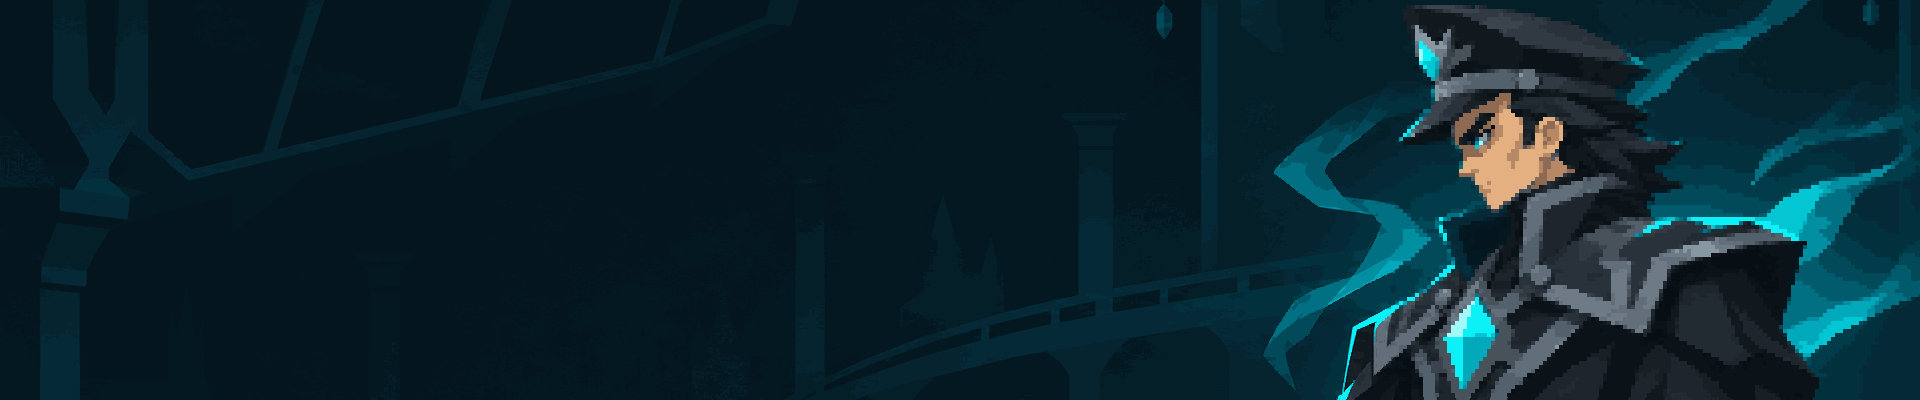
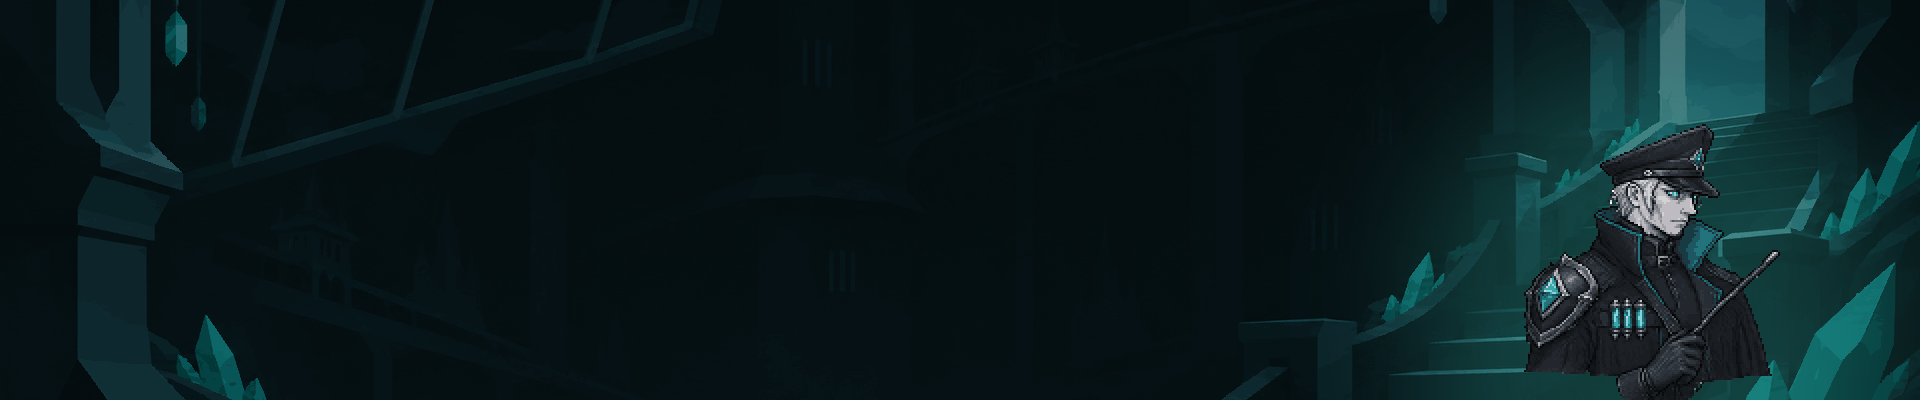
보스 이름 카드를 지금 보스 그림에 맞춤 (O4)
크래셔·아크·문지기의 카드 인물을 PixelLab 상반신으로 새로 만들었다
(보스마다 시안 둘, 크래셔 2안·아크 1안·문지기 1안 선택). 구역 카드 배경을
어둡게 하고 상반신을 2배(도트 2px)로 오른쪽에 놓는다. 심장은 지금 본체와
손 그림을 배치. 문지기 카드가 생겨 등장씬에 이름 띠가 뜬다.
예전 카드는 assets/concept/boss_cards_old/로 옮겼다. 테스트 4개 추가(862개 통과).

diff --git a/tools/apply_pixellab_boss_cards.py b/tools/apply_pixellab_boss_cards.py
@@ -1,0 +1,91 @@
+"""보스 이름 카드를 지금 보스 그림에 맞춰 굽는다 (O4, 2026-11-26, docs/opus/TASKS.md). code + PixelLab.
+
+예전 카드(Codex T34·T47)는 예전 디자인의 인물이었다(크래셔는 웃통 벗은 남자, 아크는 밝은 만화풍 장교, 문지기는 카드 없음).
+- 배경: 구역 카드 배경(assets/backgrounds/zone_<테마>.png, 1920x400)을 어둡게 하고, 인물 뒤에 구역 빛 색을 옅게 번지게 한다.
+- 인물: PixelLab 상반신(assets/sprites/pixellab/boss_cards_v6/raw_gen/<고른 시안>.png, 1배)을 알파 영역으로 잘라
+  최근접 2배(도트 2px)로 오른쪽에 놓는다. 허리가 카드 아래 끝에 닿는다.
+- 헤이즈 심장: 사람이 아니라 새로 뽑지 않고 지금 본체(열린 모습 v6_heart_core_3)와 손(heart_hand_idle_1)을 그대로 놓는다(이미 2배 그림).
+- 예전 카드는 assets/concept/boss_cards_old/로 옮겨 둔다(이 도구는 옮기지 않는다: git mv로 한 번 옮겼다).
+결과: assets/backgrounds/boss_card_<crasher|ark|gatekeeper|heart>.png (1920x400, RGB)
+
+사용: python tools/apply_pixellab_boss_cards.py
+"""
+import os
+
+from PIL import Image, ImageFilter
+
+ROOT = os.path.dirname(os.path.dirname(os.path.abspath(__file__)))
+RAW = os.path.join(ROOT, 'assets', 'sprites', 'pixellab', 'boss_cards_v6', 'raw_gen')
+OUT = os.path.join(ROOT, 'assets', 'backgrounds')
+W, H = 1920, 400
+SCALE = 2
+RIGHT = 140                 # 인물 오른쪽 끝과 카드 오른쪽 끝 사이
+DARK = 0.5                  # 배경 밝기
+
+# 보스 -> (고른 시안, 구역 배경, 인물 뒤 빛 색). 고른 이유는 boss_cards_v6/GENERATION_LOG.md
+CARDS = {
+    'crasher': ('crasher_2', 'zone_foundry', (255, 120, 50)),
+    'ark': ('ark_1', 'zone_haze', (60, 220, 200)),
+    'gatekeeper': ('gatekeeper_1', 'zone_cell', (120, 170, 230)),
+    'heart': (None, 'zone_haze', (60, 230, 210)),
+}
+
+
+def background(zone, glow, center_x):
+    bg = Image.open(os.path.join(OUT, zone + '.png')).convert('RGB').resize((W, H), Image.NEAREST)
+    bg = Image.eval(bg, lambda v: int(v * DARK))
+    halo = Image.new('L', (W, H), 0)                                   # 인물 뒤에 옅게 번지는 구역 빛
+    from PIL import ImageDraw
+    d = ImageDraw.Draw(halo)
+    d.ellipse((center_x - 230, H - 330, center_x + 230, H + 120), fill=55)
+    halo = halo.filter(ImageFilter.GaussianBlur(60))
+    color = Image.new('RGB', (W, H), glow)
+    return Image.composite(color, bg, halo)
+
+
+def portrait(name):
+    """고른 상반신: 알파 영역으로 잘라 최근접 2배. 알파는 0/255 그대로."""
+    im = Image.open(os.path.join(RAW, name + '.png')).convert('RGBA')
+    im = im.crop(im.getchannel('A').getbbox())
+    return im.resize((im.width * SCALE, im.height * SCALE), Image.NEAREST)
+
+
+def place(kind):
+    """(카드 그림, 인물 그림, 인물 왼쪽 위 좌표). 테스트가 2px 격자를 잰다."""
+    name, zone, glow = CARDS[kind]
+    if name is None:
+        return heart_card(zone, glow), None, None
+    fig = portrait(name)
+    x, y = W - RIGHT - fig.width, H - fig.height
+    card = background(zone, glow, x + fig.width // 2)
+    card.paste(fig, (x, y), fig)
+    return card, fig, (x, y)
+
+
+def heart_card(zone, glow):
+    unified = os.path.join(ROOT, 'assets', 'sprites', 'unified')
+    core = Image.open(os.path.join(unified, 'v6_heart_core_3.png')).convert('RGBA')
+    core = core.crop(core.getchannel('A').getbbox())
+    hand = Image.open(os.path.join(unified, 'heart_hand_idle_1.png')).convert('RGBA')
+    hand = hand.crop(hand.getchannel('A').getbbox())
+    cx = W - RIGHT - core.width // 2
+    card = background(zone, glow, cx)
+    top = 24                                                           # 본체 위 끝을 보이고 아래는 카드 밖으로 잘린다
+    card.paste(core, (cx - core.width // 2, top), core)
+    for side in (-1, 1):
+        h = hand if side > 0 else hand.transpose(Image.FLIP_LEFT_RIGHT)
+        hx = cx + side * (core.width // 2 + 10) - (0 if side > 0 else h.width)
+        hx = max(0, min(W - h.width, hx))
+        card.paste(h, (hx // 2 * 2, H - h.height - 20), h)
+    return card
+
+
+def main():
+    for kind in CARDS:
+        card, _, _ = place(kind)
+        card.save(os.path.join(OUT, f'boss_card_{kind}.png'))
+        print('저장', f'assets/backgrounds/boss_card_{kind}.png', card.size)
+
+
+if __name__ == '__main__':
+    main()

diff --git a/tests/test_boss_cards.py b/tests/test_boss_cards.py
@@ -1,0 +1,65 @@
+"""보스 이름 카드 테스트 (창 없이). 실행: python tests/test_boss_cards.py
+
+O4 (2026-11-26, docs/opus/TASKS.md): 보스 넷의 이름 카드를 지금 보스 그림(PixelLab v6)에 맞춰 다시 구웠다.
+카드는 1920x400, 문지기 카드가 새로 생겨 이름 띠가 뜬다, 새 상반신 부분은 도트 2px 격자다.
+"""
+import os
+import sys
+
+import numpy as np
+from PIL import Image
+
+HERE = os.path.dirname(os.path.abspath(__file__))
+ROOT = os.path.join(HERE, '..')
+sys.path.insert(0, os.path.join(ROOT, 'src'))
+sys.path.insert(0, os.path.join(ROOT, 'tools'))
+
+KINDS = ('gatekeeper', 'crasher', 'ark', 'heart')
+
+
+def test_every_boss_has_a_1920x400_card():
+    for kind in KINDS:
+        path = os.path.join(ROOT, 'assets', 'backgrounds', f'boss_card_{kind}.png')
+        assert os.path.exists(path), kind
+        assert Image.open(path).size == (1920, 400), kind
+
+
+def test_gatekeeper_card_opens():
+    import zone_card
+
+    class Boss:
+        kind, title = 'gatekeeper', '문지기'
+
+    class Stage:
+        name, boss = 'stage1', None
+    card = zone_card.ZoneCard(Stage())
+    assert card.open_boss(Boss())
+
+
+def test_new_portraits_are_on_the_two_pixel_grid_and_match_the_saved_card():
+    import apply_pixellab_boss_cards as tool
+    for kind in ('crasher', 'ark', 'gatekeeper'):
+        card, fig, (x, y) = tool.place(kind)
+        saved = np.asarray(Image.open(os.path.join(ROOT, 'assets', 'backgrounds', f'boss_card_{kind}.png')).convert('RGB'))
+        mask = np.asarray(fig.getchannel('A')) == 255
+        region = saved[y:y + fig.height, x:x + fig.width]
+        want = np.asarray(fig.convert('RGB'))
+        assert (region[mask] == want[mask]).all(), kind                  # 저장된 카드의 인물 = 도구가 놓는 그림
+        assert x % 2 == 0 and y % 2 == 0 and fig.width % 2 == 0 and fig.height % 2 == 0, kind
+        blocks = want.reshape(fig.height // 2, 2, fig.width // 2, 2, 3)
+        assert (blocks == blocks[:, :1, :, :1]).all(), kind              # 2x2 칸마다 한 색 (도트 2px)
+        m = mask.reshape(fig.height // 2, 2, fig.width // 2, 2)
+        assert (m == m[:, :1, :, :1]).all(), kind
+
+
+def test_old_cards_are_kept_as_concept():
+    for kind in ('crasher', 'ark', 'heart'):
+        assert os.path.exists(os.path.join(ROOT, 'assets', 'concept', 'boss_cards_old', f'boss_card_{kind}.png')), kind
+
+
+if __name__ == '__main__':
+    tests = [v for k, v in sorted(globals().items()) if k.startswith('test_')]
+    for t in tests:
+        t()
+        print('통과', t.__name__)
+    print(f'{len(tests)}개 통과')

diff --git a/docs/DECISIONS.md b/docs/DECISIONS.md
@@ -716,6 +716,7 @@
 - 2026-11-26 **빛줄기 (O3, docs/opus/TASKS.md)**: `src/light_shafts.py`. 등 장식(DECOR_LAMP)마다 아래로 빛 원뿔 하나, 천장 바로 아래 빈 칸에서 내려오는 빛줄기(기운 것 70%·곧은 것) 방마다 0~2개, 보스방(테마 boss·이름이 _arena, arena_05 제외) 0~1개. 문·스폰 근처(near_marker)와 그 아래 `CLEAR_ROWS`(4)칸이 근처인 자리, 등 둘레 3칸은 피하고 빛줄기끼리 6칸 띄운다. 난수는 방 이름의 crc32(파이썬 hash는 실행마다 달라 쓰지 않는다). 색: 슬럼 청백, 용광로 주황, 탑 청록, 은신처 따뜻한 색(테마별 `COLORS`). 그리기는 더하기 섞기 2배 그림으로 두 번: 배경 바로 위 `BACK_ALPHA` 0.24(지시문의 0.18은 원경 위에서 거의 보이지 않았다), 캐릭터 위 `FRONT_ALPHA` 0.05. 세기는 5초 주기 0.7~1.0. 먼지 알갱이는 `effects.draw_dot` 가장 작은 크기(지름 약 6px, 2px 점은 없다). 적 예고(붉은 띠·노란 낙하·조준선·!)는 빛줄기 안에서도 읽혀 두 번째 겹을 그대로 둔다. 타일·배경 그림과 화면 전체 밝기는 바꾸지 않는다.
 - 2026-11-26 **크래셔 착지 등장 (O2-2, docs/opus/TASKS.md)**: 처음 만난 크래셔(FULL)의 등장씬만 pan 뒤에 `drop`(`boss_intro.DROP` 그림자 0.6 + 낙하 0.25 + 머묾 0.25초). 등장씬이 시작될 때 보스를 바닥 위 `DROP_HEIGHT`(1400px)로 올려 두고(카메라는 착지 자리를 비춘다) 그림자 `drop-shadow`(네 크기, 반투명으로 얹음)가 커진 뒤 떨어진다. 착지 순간 슬로모션(0.35초, 0.35배)·흔들림 1.0·`ground_slam` 1.6·착지 자세. 등장씬 동안 world가 멈춘 문제는 **(가)안**: `drop` 단계에만 play_mode가 effects 모듈의 객체(`type(o).__module__ == 'effects'`)만 갱신하고 슬로모션을 센다. 보스·플레이어·투사체·보스 지형은 멈춘 채라 맞지 않고 보스가 공격하지 않는다. 남은 슬로모션은 대사로 넘어갈 때 지운다. Enter·Space면 바로 착지한 상태로 대사. 다시 만나면(SHORT) 서 있고, 문지기·아크·심장에는 없다. 착지 자리는 보스가 태어난 바닥(보스 지형은 싸움 중에 생긴다). `drop`도 음악 정적 단계다.
 - 2026-11-26 **O1·O2-2 검토 반영 (기획 세션)**: 보스 페이즈 컷인의 실루엣 배율은 `cut_in.boss_scale`: 몸 높이(빈 곳 제외) x 정수 배가 화면 높이의 `BOSS_FILL`(45~60%) 안에 들고, 여럿이면 52%에 가까운 것, 없으면 범위에 가장 가까운 것(크래셔 244px x2 = 45%, 문지기 252 x2 = 47%, 아크 194 x3 = 54%, 헤이즈 심장 476 x1 = 44%: 2배면 88%라 1배). 발 높이는 `BOSS_FOOT_Y` 200px(몸이 원반 가운데에 걸친다). 궁극기 각성 컷인의 주인공 실루엣은 조준한 쪽을 본다(왼쪽으로 쏘면 뒤집는다). 착지 그림자 `drop-shadow`는 둘레에 옅은 모래빛 테두리, 그림자가 커지는 동안 가장자리 양쪽에서 `dust-land` 먼지가 세 번(`DROP_DUST`) 인다: 연출이라 붉은 피해 예고색은 쓰지 않는다. 보스 페이즈 글자와 궁극기 이름은 같은 큰 글자(`WORD_FONT`)다.
+- 2026-11-26 **보스 이름 카드를 지금 보스 그림에 맞춤 (O4)**: 크래셔·아크·문지기의 카드 인물은 PixelLab 상반신(208x200, 화풍 기준 주인공 대화 초상화, `color_palette` false)을 최근접 2배로 오른쪽에 놓는다. 배경은 구역 카드 배경(`zone_<테마>.png`)을 어둡게 한 것. 헤이즈 심장은 새로 뽑지 않고 지금 본체·손 그림을 놓는다. 문지기 카드가 생겨 등장씬에 이름 띠가 뜬다. 시안은 Claude Code가 게임 그림과 가장 닮은 것으로 골랐고(크래셔 2안, 아크 1안, 문지기 1안), 사용자가 바꾸면 `tools/apply_pixellab_boss_cards.py`의 CARDS만 고쳐 다시 굽는다. 예전 카드(Codex T34·T47)는 `assets/concept/boss_cards_old/`.
 - 2026-11-26 **세션을 둘로 나눈다 (사용자 결정, 주간 한도 절약)**: 기획·판단·검토는 Fable 세션("FABLE 기획 진두지휘"), 구현·테스트·촬영·커밋은 Opus 세션("OPUS GAME 작업"). 기획 세션이 쓴 지시문은 `docs/opus/TASKS.md`. 두 세션은 같은 폴더·같은 main을 쓰므로 같은 파일을 동시에 고치지 않는다.
 - 2026-11-26 **참고 자료 검토 결과 (사용자가 "세 묶음 모두")**: 넣는다 = ① 실루엣 컷인(단색 바탕 + 검은 실루엣 0.7초: 보스 페이즈 전환, 그리고 새 증강 '궁극기 각성'을 가진 궁극기) ② 보스 등장 보강(음악 정적, 체력바 차오름, 크래셔만 착지 등장) ③ 빛줄기(등 아래 빛 원뿔과 기운 빛줄기. 환경광·배경 분리·림라이트·블룸은 이미 있다). 미룬다 = 물 반사(방에 물이 없어 자리부터 만들어야 한다, 발표 뒤). 넣지 않는다 = Claude Code Game Studios·sprite-gen·Game-Dev Agentic Skills(절차가 무겁고 한도를 많이 쓴다 / PixelLab 결정과 겹친다 / 고도·베비용). 11/24에 뺀 궁극기의 화면 정지·이름 띠는 되살리지 않는다: 컷인은 0.8초 안, 증강이 있을 때만.
 - 2026-11-26 **건너뛴 것 가운데 넷을 더 한다 (사용자: "건너뛴 것 더 하자", 고른 것은 기획 세션)**: 보스 이름 카드를 지금 보스 그림에 맞추기(크래셔 카드가 예전 디자인의 다른 인물이고 문지기는 카드가 없다), 강화 교체기(v8 3절), 등불 깜빡임·보스 막타 줌(v7 3절), 이펙트 색 점검(v8 4-5). 하지 않는다: 움직이는 발판·금 간 벽 블록(타일 충돌), 물 반사(발표 뒤), 난이도 서약, v7 합성 2종, 일시정지 전체 지도. 지시문은 `docs/opus/TASKS.md` 2차.

diff --git a/assets/sprites/pixellab/boss_cards_v6/GENERATION_LOG.md b/assets/sprites/pixellab/boss_cards_v6/GENERATION_LOG.md
@@ -1,0 +1,33 @@
+# 보스 이름 카드 상반신 boss_cards_v6 생성 기록 (2026-11-26, Claude Code)
+
+배경: 보스 등장씬의 이름 카드(Codex T34·T47)가 예전 디자인이었다(크래셔는 웃통 벗은 대머리 남자, 아크는 밝은 만화풍 장교, 문지기는 카드 없음).
+지금 보스 그림(PixelLab v6)과 같은 인물로 다시 만든다(docs/opus/TASKS.md O4). 36회 사용(장당 6회), 남은 약 1248회.
+
+## 공통
+- 도구: `create_image_pro_flash`, 208x200(장당 6회), no_background, seed 3·11.
+- style_image: 주인공 대화 초상화 `portraits_v6/raw_gen/n09_1.png`(100x100, upload),
+  usage "Art style, outline, shading, detail level and pixel scale only: a dialogue portrait from the same game. Do not copy this character, his colours, his hair or his clothes."
+- style_options: color_palette **false**(주인공의 살색·옷 색이 따라오지 않게), outline·detail·shading true.
+- 디자인은 각 보스의 GENERATION_LOG.md 설명을 그대로 옮겼다. 방향은 카드 글자 쪽(왼쪽)을 보는 3/4 시점, 허리에서 자른 상반신.
+
+## 설명 (영문 그대로)
+- crasher: Upper-body portrait (head, shoulders and chest only, cropped at the waist) of Crasher, a huge hulking scrap-metal brute boss, three-quarter view facing left. He is a walking furnace made of armor, not a human: enormous rounded rusty orange shoulder plates, riveted rusty orange and dark brown armor plates with weld seams, a small helmeted head sunk low between the huge shoulders with two narrow glowing orange eye slits, a glowing orange-red furnace core set in the middle of the chest, two black exhaust pipes rising behind the shoulders with sooty tips. No bare skin, no human face, no hair. Heavy, menacing. Colours: rusty orange, dark brown, charcoal grey, glowing orange-red core only.
+- ark: Upper-body portrait (...) of Chief Warden Ark, the cold commander of a prison tower, three-quarter view facing left. A gaunt, pale grey thin face with sharp cheekbones and glowing teal eyes, a black peaked officer cap with a small teal diamond badge, a long black military greatcoat with a high upturned collar and teal lining, a dark armoured shoulder pad set with a teal crystal, three small teal vials on the chest, a black gloved hand holding a slim black officer's baton across the chest. Elegant, severe, narrow silhouette. Colours: black, dark grey, pale grey skin, teal accents only.
+- gatekeeper: Upper-body portrait (...) of the Gatekeeper, a prison gate warden in heavy black steel full plate armour, three-quarter view facing left. A closed great helm with a single glowing teal eye slit, big rusted copper shoulder plates with rivets, a tall rusty iron-barred tower shield held at the front edge of the picture, a short spiked iron mace raised in the other hand, a ring of brass keys hanging at the belt. Heavy, stern, unmovable. Colours: dark steel grey, black, rusted copper, brass, a single teal eye glow only.
+
+## 시안 평가 (비교판 `shots/review/boss_cards_v6_options.png`: 게임 그림 3배 | 1안 | 2안)
+| 파일 | seed | 색 | 평가 |
+|---|---|---|---|
+| raw_gen/crasher_1.png | 3 | 13 | 디자인은 맞으나 색이 적어 갈색으로 탁하다 |
+| raw_gen/crasher_2.png | 11 | 62 | 밝은 녹슨 주황 어깨판·가슴 용광로·배기관이 게임 그림의 색과 가장 가깝다 -> **선택** |
+| raw_gen/ark_1.png | 3 | 27 | 어깨 장갑의 청록 결정, 약병 셋, 지휘봉이 게임 그림과 같다 -> **선택** |
+| raw_gen/ark_2.png | 11 | 36 | 비슷하나 어깨 결정이 작고 얼굴이 어둡다 |
+| raw_gen/gatekeeper_1.png | 3 | 45 | 구리 어깨판·쇠창살 방패·철퇴·황동 열쇠·청록 눈구멍이 모두 또렷하다 -> **선택** |
+| raw_gen/gatekeeper_2.png | 11 | 33 | 비슷하나 어둡고 열쇠가 작다 |
+
+사용자가 다른 시안을 고르면 `tools/apply_pixellab_boss_cards.py`의 CARDS에서 이름만 바꾸고 다시 돌린다.
+헤이즈 심장은 사람이 아니라 새로 뽑지 않았다(지금 본체 v6_heart_core_3 + 손 heart_hand_idle_1을 그대로 배치).
+
+## 굽기
+`python tools/apply_pixellab_boss_cards.py`: 구역 카드 배경(zone_foundry·zone_haze·zone_cell)을 0.5배로 어둡게 + 인물 뒤에 구역 빛 색을 옅게,
+상반신은 알파 영역으로 잘라 최근접 2배(도트 2px), 오른쪽 끝에서 140px, 허리가 카드 아래 끝. 예전 카드는 `assets/concept/boss_cards_old/`.

diff --git a/docs/PROGRESS.md b/docs/PROGRESS.md
@@ -407,4 +407,5 @@
 2026-11-26 [Claude Code] O3 빛줄기(docs/opus/TASKS.md): src/light_shafts.py(등 장식 아래 빛 원뿔, 방마다 천장 빛줄기 0~2개·보스방 0~1개, 문·스폰 근처와 그 아래 네 칸은 피함, 방 이름 crc32 난수로 늘 같은 자리, 구역 테마 색, 5초 주기로 숨 쉬는 세기, 먼지 알갱이), atmosphere가 배경 위(0.24)와 캐릭터 위(0.05)에 더하기로 그림. 그림 shaft_cone·straight·slant는 make_light.py(code-drawn, 빛 층). 0.18은 원경 위에서 거의 안 보여 0.24로 올림. 테스트 7개를 먼저 쓰고 구현, 은신처·세 구역의 같은 방 전·후와 빛줄기 안의 적 예고(붉은 띠·노란 낙하·조준선·!)를 실제 창에서 확인 / src/(light_shafts, atmosphere).py, tools/make_light.py, assets/light/shaft_(cone, straight, slant).png, tests/test_light_shafts.py, docs/(PROGRESS, DECISIONS, ASSETS).md
 2026-11-26 [Claude Code] O2-2 크래셔 착지 등장(docs/opus/TASKS.md): 처음 만난 크래셔의 등장씬만 pan 뒤에 drop 단계(그림자 0.6초 커짐 -> 0.25초 낙하 -> 착지 슬로모션 0.35초·흔들림 1.0·ground_slam 1.6 -> 대사). 등장씬으로 world가 멈춘 동안 effects 모듈의 이펙트만 갱신(가안), 보스·플레이어·투사체·보스 지형은 멈춤. Enter·Space면 바로 착지한 상태. 그림자 drop-shadow 네 크기는 make_fx2(code-drawn, 어두운 바닥에서 안 보여 바깥 겹을 회갈색으로). 테스트 5개를 먼저 쓰고 구현, 기존 등장씬 테스트 둘(처음 크래셔는 pan 다음 drop, 정적 단계에 drop)을 고침. 실제 창에서 그림자 -> 낙하 -> 착지 -> 대사 확인 / src/(boss_intro, play_mode).py, tools/make_fx2.py, assets/effects/drop-shadow.(png, json), assets/light/glow_drop-shadow.png, tests/test_boss_intro.py, docs/(PROGRESS, DECISIONS, ASSETS).md
 2026-11-26 [Claude Code] O1·O2-2 검토 반영(기획 세션): 보스 실루엣 배율을 화면 높이 45~60% 기준의 정수 배로(cut_in.boss_scale: 크래셔·문지기 2배, 아크 3배, 심장 1배=44%로 가장 가까움), 발 높이를 올려 몸이 원반 가운데에 걸치게. 궁극기 각성 실루엣이 조준한 쪽을 봄. 착지 그림자에 옅은 모래빛 테두리와 커지는 동안 가장자리 먼지 세 번(붉은 예고색은 피함). 보스 글자는 이미 궁극기 이름과 같은 큰 글자였음(검토 그림은 고치기 전 1차 장면), 같은 글꼴을 쓰는지 테스트로 고정. 테스트 5개 추가, 구역 카드 없이 착지 장면과 체력바가 차오르는 중간 장면, 보스 6장면·궁극기 왼쪽/오른쪽 컷인을 실제 창에서 다시 찍음 / src/(cut_in, weapon, boss_intro).py, tools/make_fx2.py, assets/effects/drop-shadow.png, tests/(test_cut_in, test_boss_intro).py, docs/(PROGRESS, DECISIONS).md
+2026-11-26 [Claude Code] O4 보스 이름 카드를 지금 보스 그림에 맞춤(docs/opus/TASKS.md): PixelLab create_image_pro_flash 208x200으로 크래셔·아크·문지기 상반신 시안 두 장씩(36회, 화풍 기준 주인공 초상화, color_palette false), 크래셔 2안·아크 1안·문지기 1안 선택(이유는 boss_cards_v6/GENERATION_LOG.md, 비교판 shots/review/boss_cards_v6_options.png). tools/apply_pixellab_boss_cards.py로 구역 카드 배경을 어둡게 + 상반신 2배를 오른쪽에, 심장은 지금 본체·손 배치. 문지기 카드가 새로 생겨 이름 띠가 뜸. 예전 카드는 assets/concept/boss_cards_old/. 대사 옆 얼굴 초상화(여유 항목)는 넣지 않음. 테스트 4개, 보스 넷의 등장씬 이름 카드를 실제 창에서 확인 / assets/backgrounds/boss_card_(crasher, ark, gatekeeper, heart).png, assets/concept/boss_cards_old/, assets/sprites/pixellab/boss_cards_v6/, tools/apply_pixellab_boss_cards.py, tests/test_boss_cards.py, docs/(PROGRESS, DECISIONS, ASSETS, image_prompts).md
 2026-11-26 [Claude Code] 계획 문서(퀄리티 계획·v4~v8)를 코드와 대조해 건너뛴 것을 정리하고, 그중 넷(보스 이름 카드 맞추기, 강화 교체기, 등불 깜빡임·보스 막타 줌, 색 점검)을 작업 세션 지시문 2차로 씀. 보스 이름 카드가 예전 디자인인 것을 새로 확인 / docs/opus/TASKS.md, docs/(PROGRESS, DECISIONS).md

diff --git a/docs/image_prompts.md b/docs/image_prompts.md
@@ -335,3 +335,5 @@ One tall mature sinister male prison warden final boss. FIRST reference is exact
 2026-11-25 [Gemini] G04 대화 초상화 남은 5장 완료(`mechanic_portrait.png`, `keeper_portrait.png`, `archivist_portrait.png`, 추가 표정 `hero_portrait_angry.png`, `hero_portrait_hurt.png`, 각 1024×1024). `hero_portrait.png` 화풍·가슴 위 3/4 구도와 `npc_{mechanic,keeper,archivist}_idle_1.png` 외형을 참조해 애니풍 선화·3단계 셀 음영·마젠타 배경 요청. Antigravity 내장 image-generator(`gemini-3.1-flash-image`). 상세는 docs/gemini/reports/G04.md.
 
 2026-11-26 [Claude Code] PixelLab으로 주인공 대화 초상화를 다시 만듦(사용자 요청: NPC처럼 PixelLab으로). 가슴 위 3/4 오른쪽, 창백한 회청색 피부, 뒤로 솟은 흰 머리, 빛나는 청록 눈, 차분하고 지친 표정, 목을 감싼 짙은 머플러와 검은 작업 재킷, 머플러에서 오르는 청록 기운. 예전 주인공 초상화를 기준 그림으로 넣고 "같은 인물을 다시 그려라". 결의 표정은 얼굴만 글로 편집. 영문 프롬프트·seed·시안 평가는 `assets/sprites/pixellab/portraits_v6/GENERATION_LOG.md`.
+
+2026-11-26 [Claude Code] PixelLab으로 보스 이름 카드 상반신(크래셔·아크·문지기)을 새로 만듦(O4). create_image_pro_flash 208x200, 화풍 기준 = 주인공 대화 초상화(color_palette false), 보스마다 seed 3·11 두 장. 설명은 각 보스의 v6 디자인 그대로, 3/4 시점 왼쪽을 봄, 허리에서 자른 상반신. 영문 프롬프트 전문과 시안 평가는 `assets/sprites/pixellab/boss_cards_v6/GENERATION_LOG.md`.
